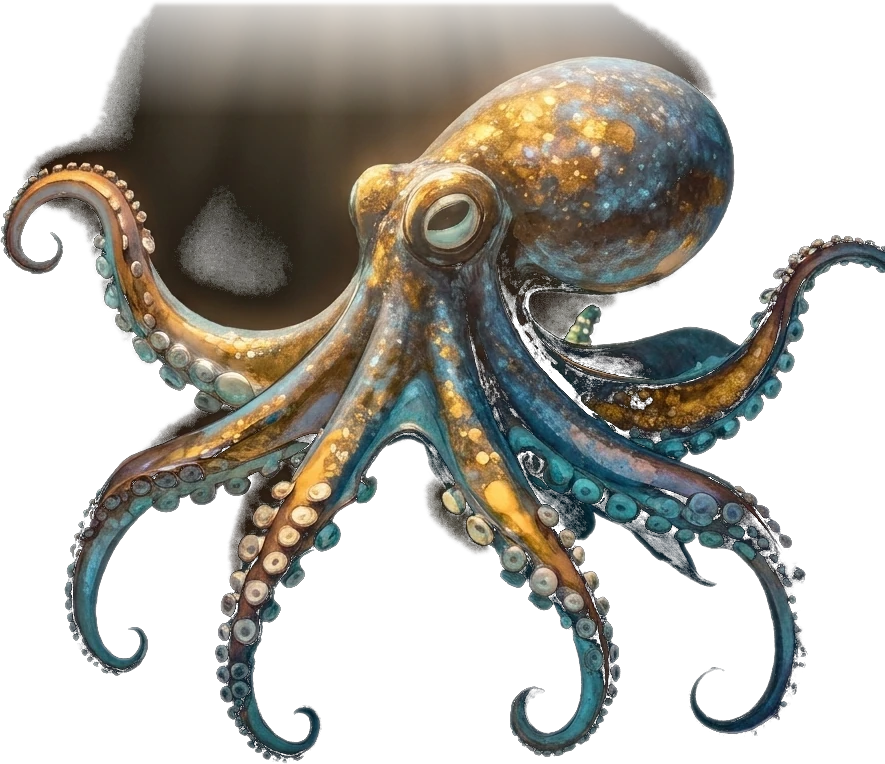
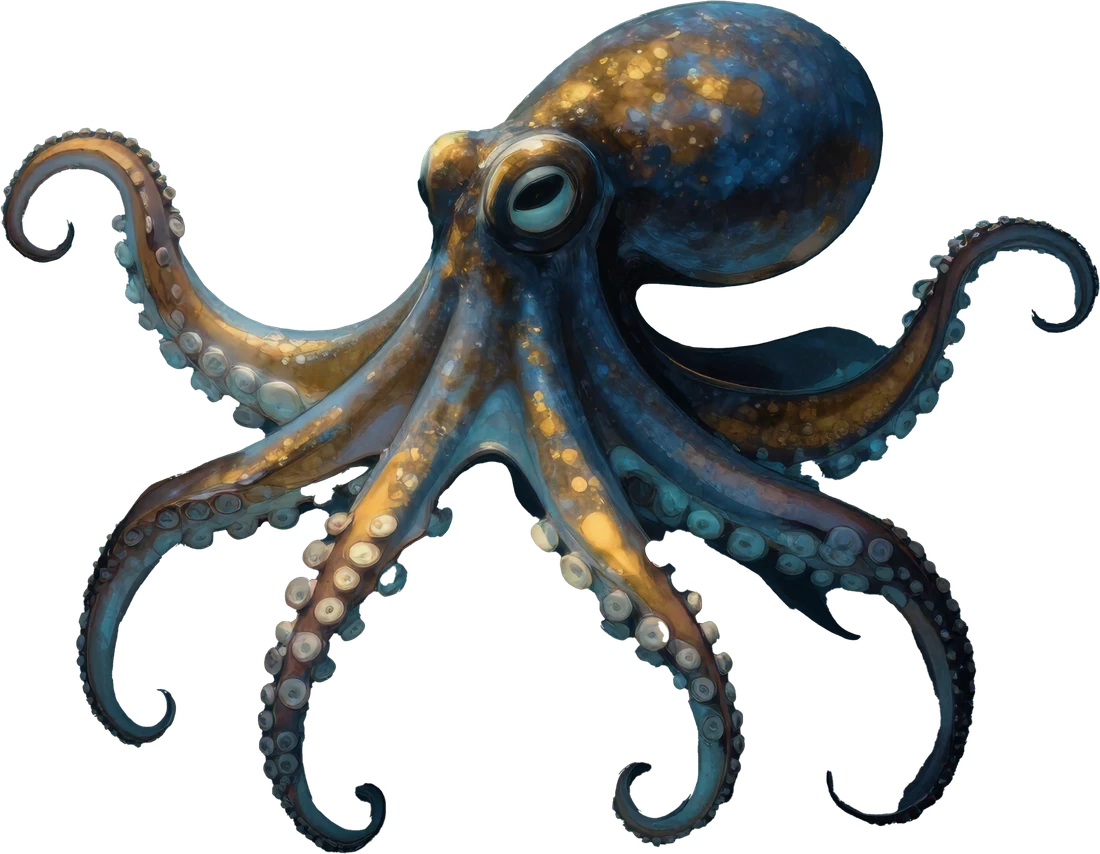
feat: use Evan's own transparent octopus art for the Descent hero

diff --git a/index-descent.html b/index-descent.html
@@ -78,7 +78,7 @@ html.lenis,html.lenis body{height:auto}
   background:url("/assets/descent/brain.webp") center/contain no-repeat;
   mix-blend-mode:screen; transform:translate(-50%,-50%);}
 #octopus{position:absolute; left:50%; top:50%; pointer-events:none;
-  width:min(56vh,500px); aspect-ratio:885/764;
+  width:min(56vh,500px); aspect-ratio:1100/854;
   background:url("/assets/descent/octopus.webp") center/contain no-repeat;
   filter:drop-shadow(0 30px 70px rgba(0,0,0,.6)) drop-shadow(0 0 34px rgba(95,233,212,.12));
   transform:translate(-50%,-50%);}

diff --git a/PROGRESS.md b/PROGRESS.md
@@ -28,8 +28,13 @@ its design. Full method + every locked decision live in **REDESIGN-DECISIONS.md*
   dive, mouse-parallax), the brain (grows from a pinpoint → breathing hero at the offer), staggered text
   reveals per beat, depth-gauge meter + menu (right), gold free-look bubble that blooms at the offer,
   EN/ES, reduced-motion, JSON-LD for AI search, favicon. **7 beats** = the locked journey. Studio "we" voice.
-- **Next:** Evan to watch it move and give the ONE thing that bugs him most (refining was running blind);
-  then keep polishing, and only later decide go-live (replace `index.html`) vs the more-minimal Elva route.
+- **2026-06-25 — octopus replaced with Evan's own art.** Earlier auto-cutouts kept leaving a glow/box
+  stuck to the head (brightness, color, and texture tricks all failed — the god-rays are golden *and*
+  bright *and* smooth-vs-textured only partly). Evan supplied a clean transparent PNG (`Ex/Pulpo.png`);
+  it's now the hero octopus: tidied of stray specks, scaled to web size (137K webp), frame ratio set to
+  1100/854 in `index-descent.html`. The old generated `design/assets/octopus-hero*.png` remain as source.
+- **Next:** Evan to confirm the new octopus sits right in the dive; then keep polishing, and only later
+  decide go-live (replace `index.html`) vs the more-minimal Elva route.
 - **Skill improvement (global):** added a reference-sites step to the `/website` discovery (always ask for
   example sites + which exact parts the owner likes; re-ask when a draft misses). Style stays neutral.
 